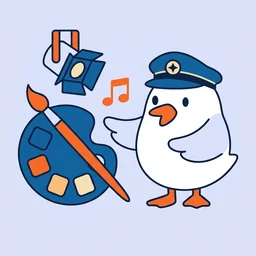
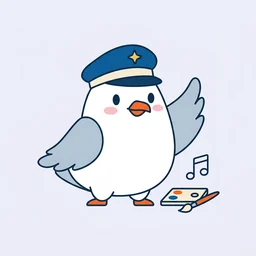
Gremien-Bilder: Lotti einheitlich (Prompt schärft Augen, Schnabel, Körper); Integration, Sport, Planung, Kultur neu

diff --git a/scripts/themen_grafiken.py b/scripts/themen_grafiken.py
@@ -59,6 +59,21 @@ STIL = (
     "humans, no watermark.{cameo}"
 )
 
+#: So sieht Lotti in JEDEM Bild aus. Ohne diese Zeile wich das Modell ab: am
+#: 01.10.2026 hatte sie in drei von 16 Gremienbildern Kulleraugen, blaue Augen
+#: oder einen schlanken Körper mit langem Schnabel (Tims Befund: „sieht ganz
+#: anders aus").
+LOTTI_GESICHT = (
+    " Lotti ALWAYS looks exactly like this: a chubby, round, egg-shaped white "
+    "body with a wide low stance; a head merged into the body; two SMALL solid "
+    "dark navy oval eyes with one tiny white highlight each, set wide apart "
+    "(never big round eyes, never blue eyes, never white rings around the "
+    "eyes); a SHORT stubby triangular orange beak; a soft pink cheek patch; "
+    "short orange feet; light blue-grey wings; her navy pilot cap always has a "
+    "small gold four-pointed star badge on the front and a cream band, and no "
+    "other badge or emblem appears on her body."
+)
+
 #: Der Zusatz, wenn eine Figur aus Lottis Welt mitspielt. Das Referenzbild
 #: (`themen_referenz.png`, ein Rendering aus dem Lotti-Studio) bekommt das
 #: Modell mitgeschickt; die Figuren werden im flachen Stil NEU GEZEICHNET, nicht
@@ -70,6 +85,7 @@ CAMEO = (
     "orange crab. Redraw {wer} in the same flat outline style as the rest of "
     "the picture (thin navy outline, flat colors, no shading), small in the "
     "scene, {was}. Keep the character recognizable, do not copy the 3D look."
+    + LOTTI_GESICHT
 )
 
 #: key aus ``council/city_topics.py`` → (Motiv, Akzentfarbe, Hintergrund).
@@ -109,7 +125,7 @@ GREMIEN: dict[str, tuple[str, str, str, str]] = {
     "waste": ("a recycling bin with a green arrow and a litter picker stick", "holding the litter picker", "green", "light mint"),
     "buildings": ("a small brick wall, a spirit level and a wrench", "holding the wrench next to the wall", "orange", "light warm beige"),
     "youth": ("a flying kite with a ribbon tail", "holding the kite string together with the small chick", "orange", "light yellow"),
-    "culture": ("a music note, a paint palette with a brush and a small spotlight", "standing next to the palette, conducting with a wing", "orange", "light lavender"),
+    "culture": ("a small paint palette with a brush, resting on the ground right next to her, and one floating music note above it", "standing in the middle of the picture, one wing raised as if conducting", "orange", "light lavender"),
     "school": ("a school bag, an open book and a pencil", "standing next to the bag, reading the book", "orange", "light yellow"),
     "social": ("a big heart-shaped cushion and a steaming cup", "sitting on the cushion with the small chick, sharing it", "orange", "light peach"),
     "sport": ("a whistle, a medal on a ribbon and a small cone", "wearing the medal around her neck, blowing the whistle", "orange", "light green"),
@@ -180,8 +196,10 @@ HAUPTFIGUR = (
     "clearly recognizable: she is {was}. Redraw her in the same flat outline "
     "style as the props (thin navy outline, flat colors, no shading); do not "
     "copy the 3D look of the reference. Lotti and the props together fill "
-    "about 70 percent of the frame, fully visible with generous margin on all "
+    "about 60 percent of the frame, ZOOMED OUT so that Lotti AND every prop are "
+    "completely visible with a wide empty margin on all four sides, "
     "sides, nothing cropped at the edges."
+    + LOTTI_GESICHT
 )
 
 
